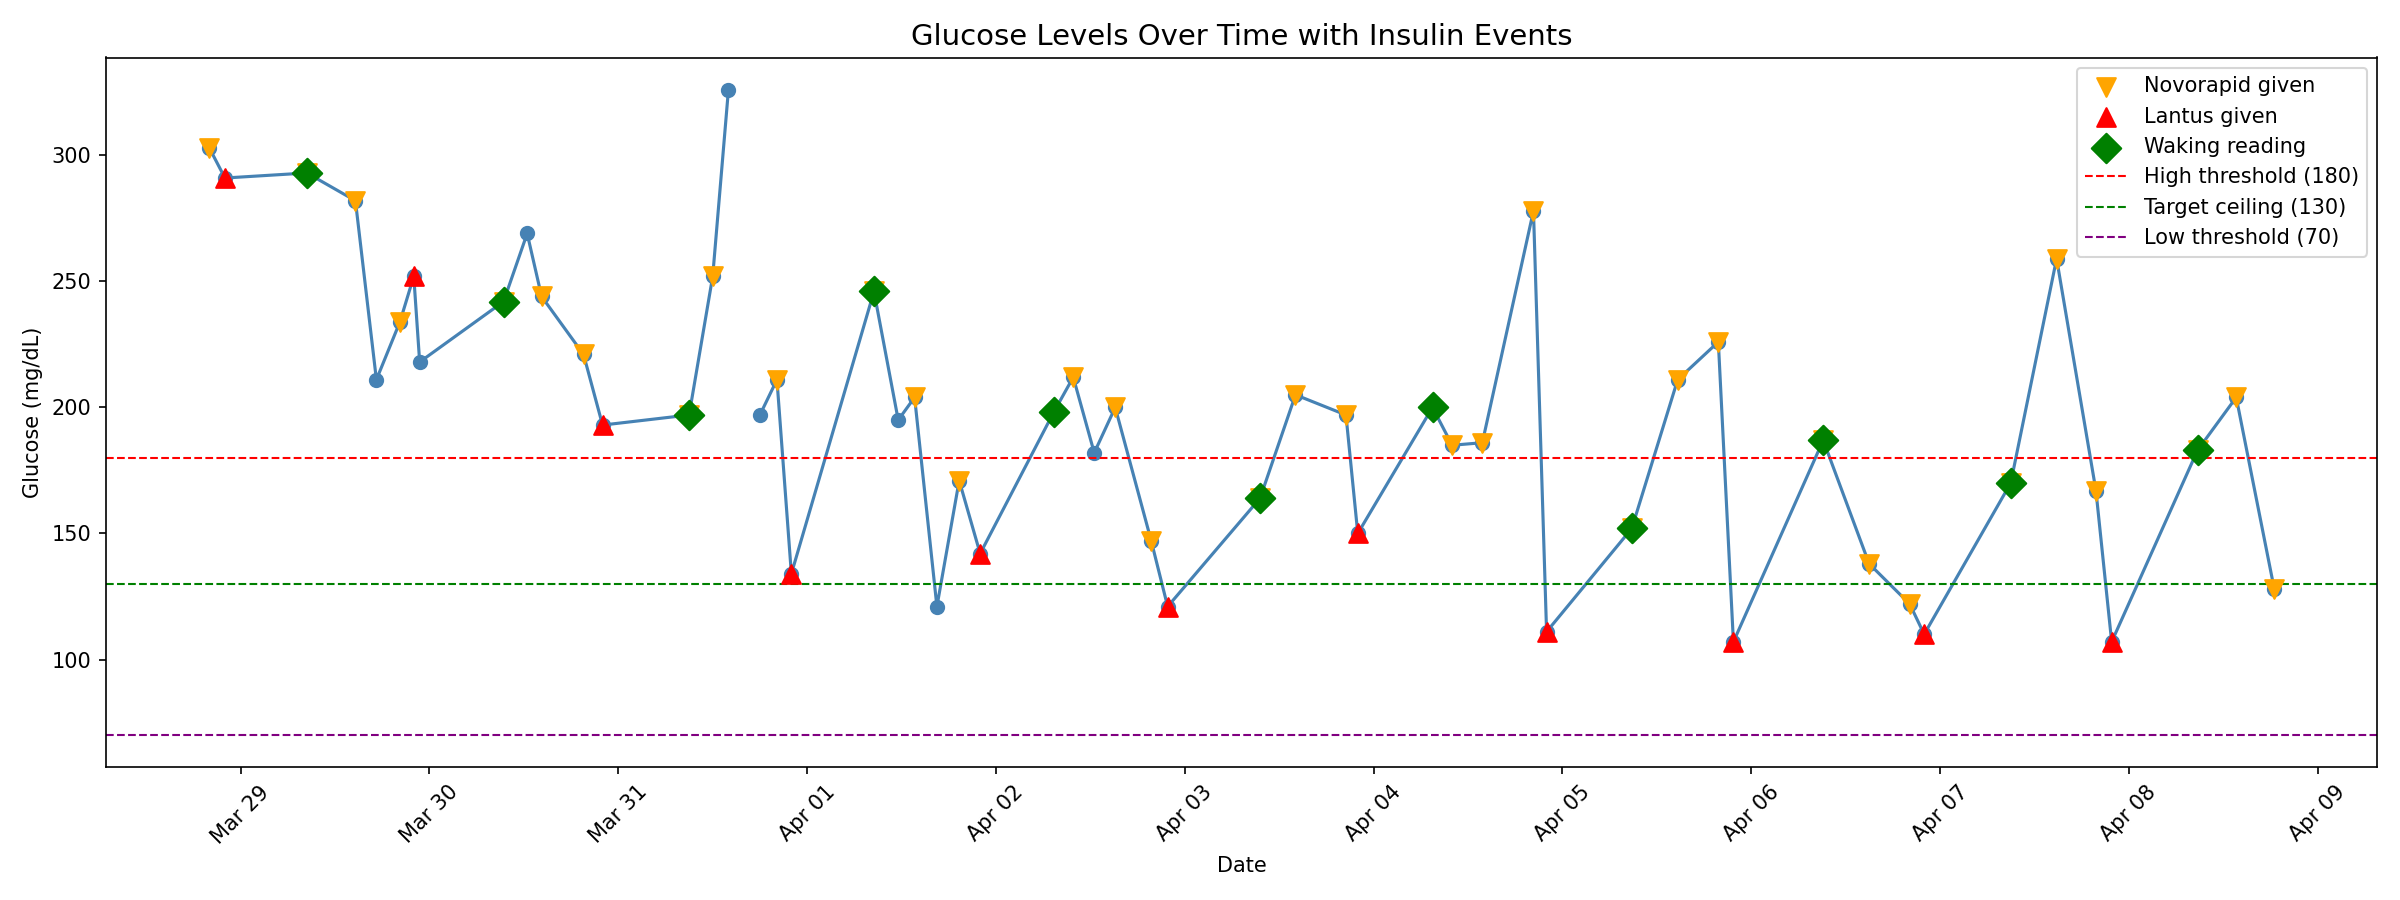
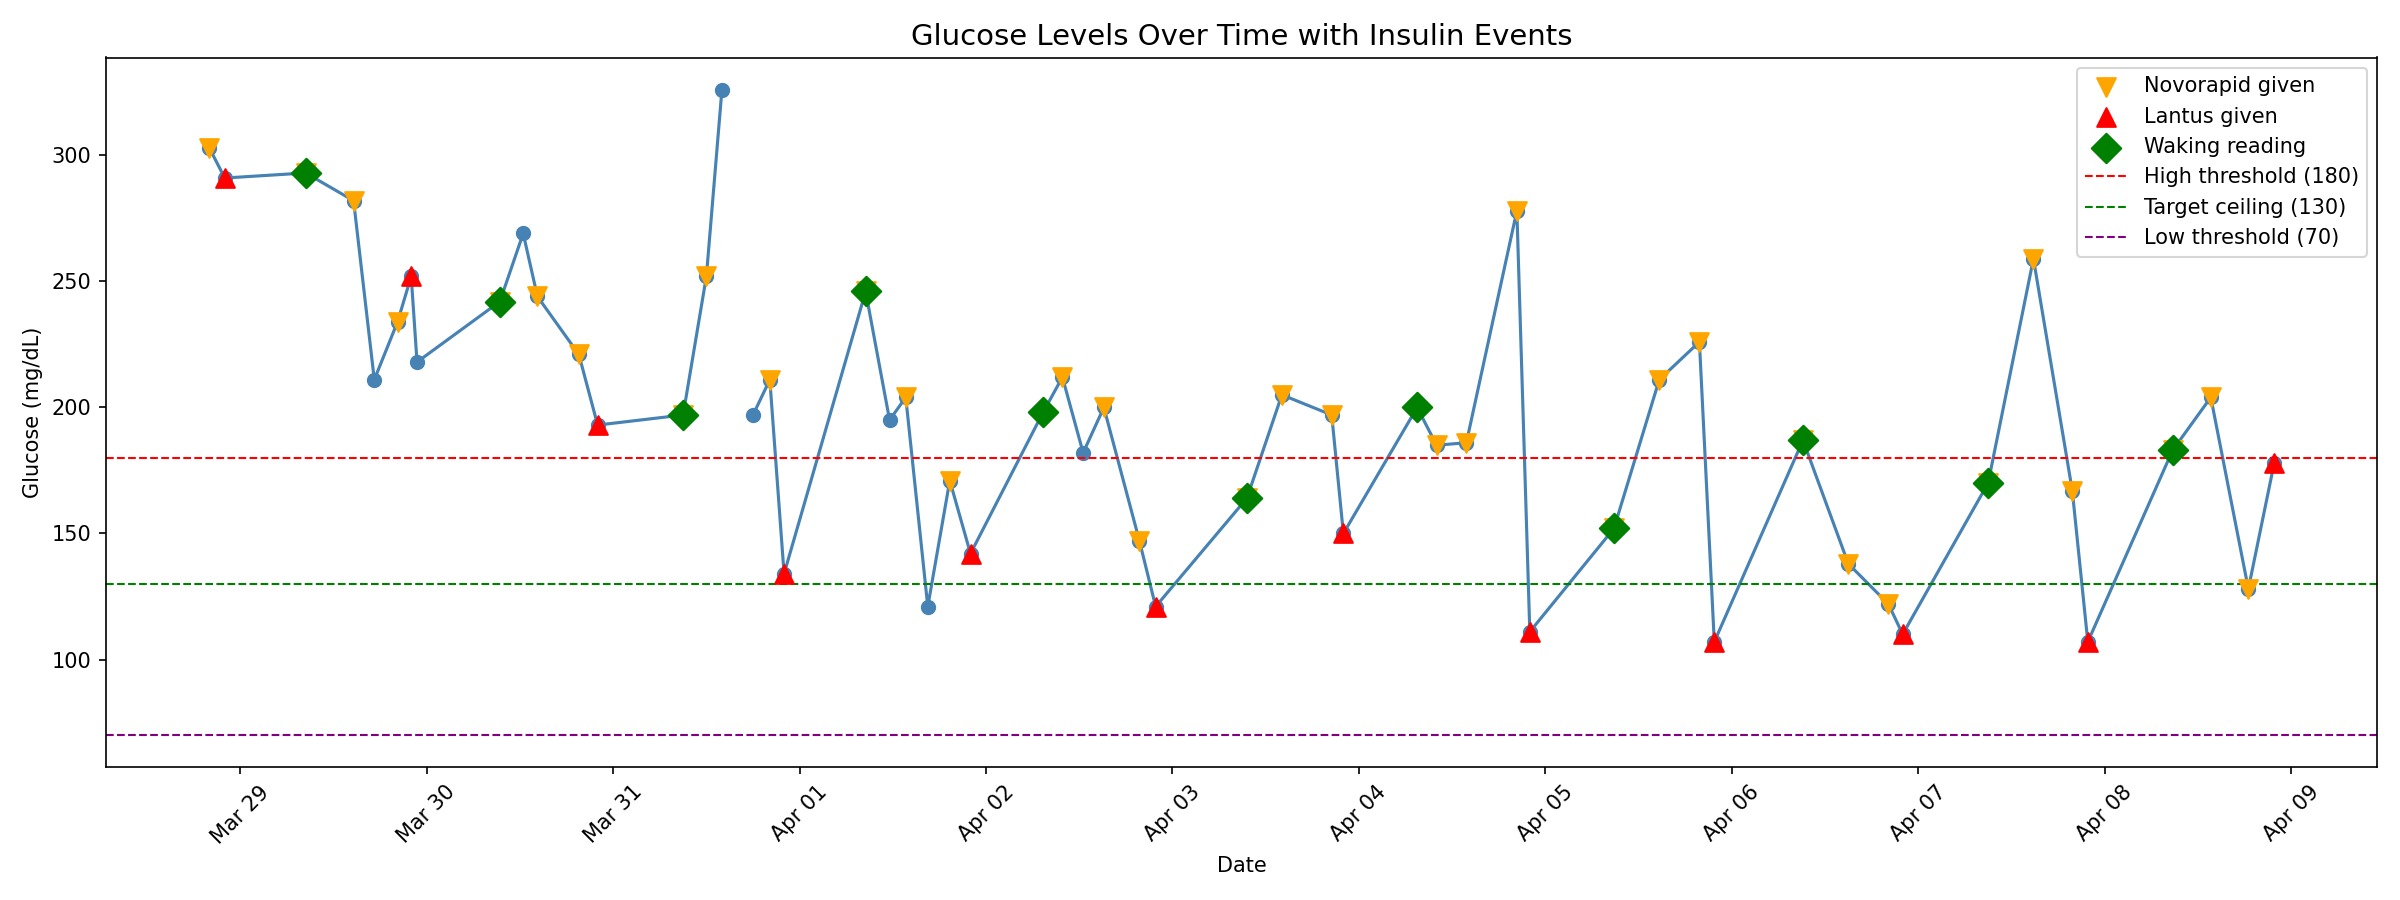
feat: analysis functions, updated data with Apr 8 evening reading

diff --git a/src/analyze.py b/src/analyze.py
@@ -1,0 +1,96 @@
+import pandas as pd
+from scipy import stats
+
+
+def waking_glucose_stats(df):
+    waking = df[df["waking_reading"] == 1].copy()
+
+    print("=== Waking Glucose Stats ===")
+    print(f"Count:        {len(waking)}")
+    print(f"Mean:         {waking['glucose_mg_dl'].mean():.1f} mg/dL")
+    print(f"Median:       {waking['glucose_mg_dl'].median():.1f} mg/dL")
+    print(f"Std dev:      {waking['glucose_mg_dl'].std():.1f} mg/dL")
+    print(f"Min:          {waking['glucose_mg_dl'].min():.1f} mg/dL")
+    print(f"Max:          {waking['glucose_mg_dl'].max():.1f} mg/dL")
+    print(f"Above 180:    {(waking['glucose_mg_dl'] > 180).sum()} / {len(waking)} days")
+    print(f"Above 130:    {(waking['glucose_mg_dl'] > 130).sum()} / {len(waking)} days")
+    print(f"In range:     {((waking['glucose_mg_dl'] >= 70) & (waking['glucose_mg_dl'] <= 130)).sum()} / {len(waking)} days")
+
+    return waking
+
+
+def lantus_vs_waking(df):
+    df = df.copy().sort_values("timestamp").reset_index(drop=True)
+
+    lantus_rows = df[df["lantus_units"] > 0][["timestamp", "lantus_units"]].copy()
+    waking_rows = df[df["waking_reading"] == 1][["timestamp", "glucose_mg_dl"]].copy()
+
+    pairs = []
+    for _, lrow in lantus_rows.iterrows():
+        future_waking = waking_rows[waking_rows["timestamp"] > lrow["timestamp"]]
+        if not future_waking.empty:
+            next_waking = future_waking.iloc[0]
+            pairs.append({
+                "lantus_units": lrow["lantus_units"],
+                "lantus_time": lrow["timestamp"],
+                "next_waking_glucose": next_waking["glucose_mg_dl"],
+                "next_waking_time": next_waking["timestamp"],
+            })
+
+    result = pd.DataFrame(pairs)
+
+    print("\n=== Lantus Dose vs Next Waking Glucose ===")
+    print(result[["lantus_units", "next_waking_glucose"]].to_string(index=False))
+
+    if len(result) >= 3:
+        r, p = stats.pearsonr(result["lantus_units"], result["next_waking_glucose"])
+        print(f"\nPearson correlation:  r = {r:.3f},  p = {p:.4f}")
+        if p < 0.05:
+            print("Statistically significant correlation.")
+        else:
+            print("No statistically significant correlation (expected with small dataset).")
+
+    return result
+
+
+def meal_spike_analysis(df):
+    df = df.copy().sort_values("timestamp").reset_index(drop=True)
+
+    df["next_glucose"] = df["glucose_mg_dl"].shift(-1)
+    df["glucose_change"] = df["next_glucose"] - df["glucose_mg_dl"]
+
+    pre_meal = df[df["meal_context"].isin(["pre_breakfast", "pre_lunch", "pre_dinner"])]
+    pre_meal = pre_meal[pre_meal["glucose_change"].notna()].copy()
+
+    print("\n=== Glucose Change After Each Meal Context ===")
+    summary = pre_meal.groupby("meal_context")["glucose_change"].agg(
+        count="count",
+        mean="mean",
+        std="std",
+        min="min",
+        max="max"
+    ).round(1)
+    print(summary.to_string())
+
+    return pre_meal
+
+
+def novorapid_effectiveness(df):
+    df = df.copy().sort_values("timestamp").reset_index(drop=True)
+
+    df["next_glucose"] = df["glucose_mg_dl"].shift(-1)
+    df["glucose_change"] = df["next_glucose"] - df["glucose_mg_dl"]
+
+    novo = df[(df["novorapid_units"] > 0) & (df["glucose_change"].notna())].copy()
+
+    lowered = (novo["glucose_change"] < 0).sum()
+    raised = (novo["glucose_change"] >= 0).sum()
+
+    print("\n=== Novorapid Effectiveness ===")
+    print(f"Total injections analyzed:  {len(novo)}")
+    print(f"Glucose lowered after:      {lowered} ({lowered/len(novo)*100:.1f}%)")
+    print(f"Glucose still rose after:   {raised} ({raised/len(novo)*100:.1f}%)")
+    print(f"\nMean glucose change per dose:")
+    print(novo.groupby("novorapid_units")["glucose_change"].mean().round(1).to_string())
+
+    return novo

diff --git a/main.py b/main.py
@@ -5,6 +5,12 @@ from src.visualize import (
     plot_daily_average,
     plot_insulin_response
 )
+from src.analyze import (
+    waking_glucose_stats,
+    lantus_vs_waking,
+    meal_spike_analysis,
+    novorapid_effectiveness
+)
 
 df = load_data()
 summarize(df)
@@ -13,3 +19,8 @@ plot_glucose_timeline(df)
 plot_hourly_distribution(df)
 plot_daily_average(df)
 plot_insulin_response(df)
+
+waking_glucose_stats(df)
+lantus_vs_waking(df)
+meal_spike_analysis(df)
+novorapid_effectiveness(df)
